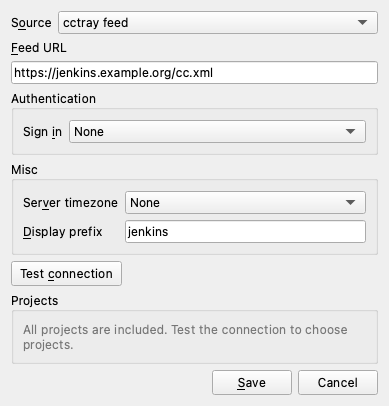
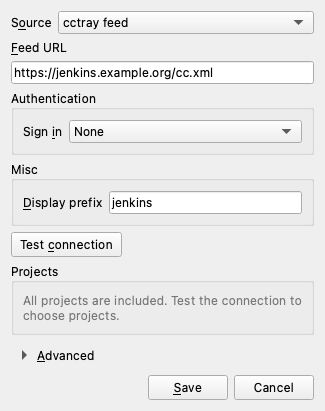
Document the Advanced section and refresh the server dialog screenshots

diff --git a/docs/usage.md b/docs/usage.md
@@ -14,7 +14,9 @@ Given a url pointing to cctray.xml, BuildNotify notifies you of any changes in t
 
 Add a new server by clicking the `+` sign. Under Sign in, choose `None`, `Username and password` or `Token` (a Bearer token, without the `Bearer` keyword). Credentials are kept in the system keyring. Without one, the dialog says so and asks you to install the `keyring` package.
 
-If a server's certificate isn't trusted, the dialog asks whether to connect anyway. Accepting turns off certificate checks for that server only. The dialog then shows `Certificate checks off for <host>` with a `Turn checks back on` button, and checks come back on if you change the host.
+If a server's certificate isn't trusted, the dialog asks whether to connect anyway. Accepting turns off certificate checks for that server only. The dialog then opens `Advanced` and shows `Certificate checks off for <host>` with a `Turn checks back on` button, and checks come back on if you change the host.
+
+The `Advanced` section at the bottom of the dialog holds `Time zone for feed times` and the certificate checks. It stays collapsed unless a time zone is set or certificate checks are off. The time zone defaults to `Use the feed's offset`, and you can type part of a zone name, such as `Kolkata`, to find it.
 
 Save works without testing the server first, so you can add one that is down, and all of its projects are included. Test connection shows how many projects the feed has, or a short error, and then lists them so you can untick the ones you don't want. The `All (N of M)` box shows a partial state while some are unticked, and ticking it sets every project the filter field currently shows. Projects added to the feed later are included automatically.
 
